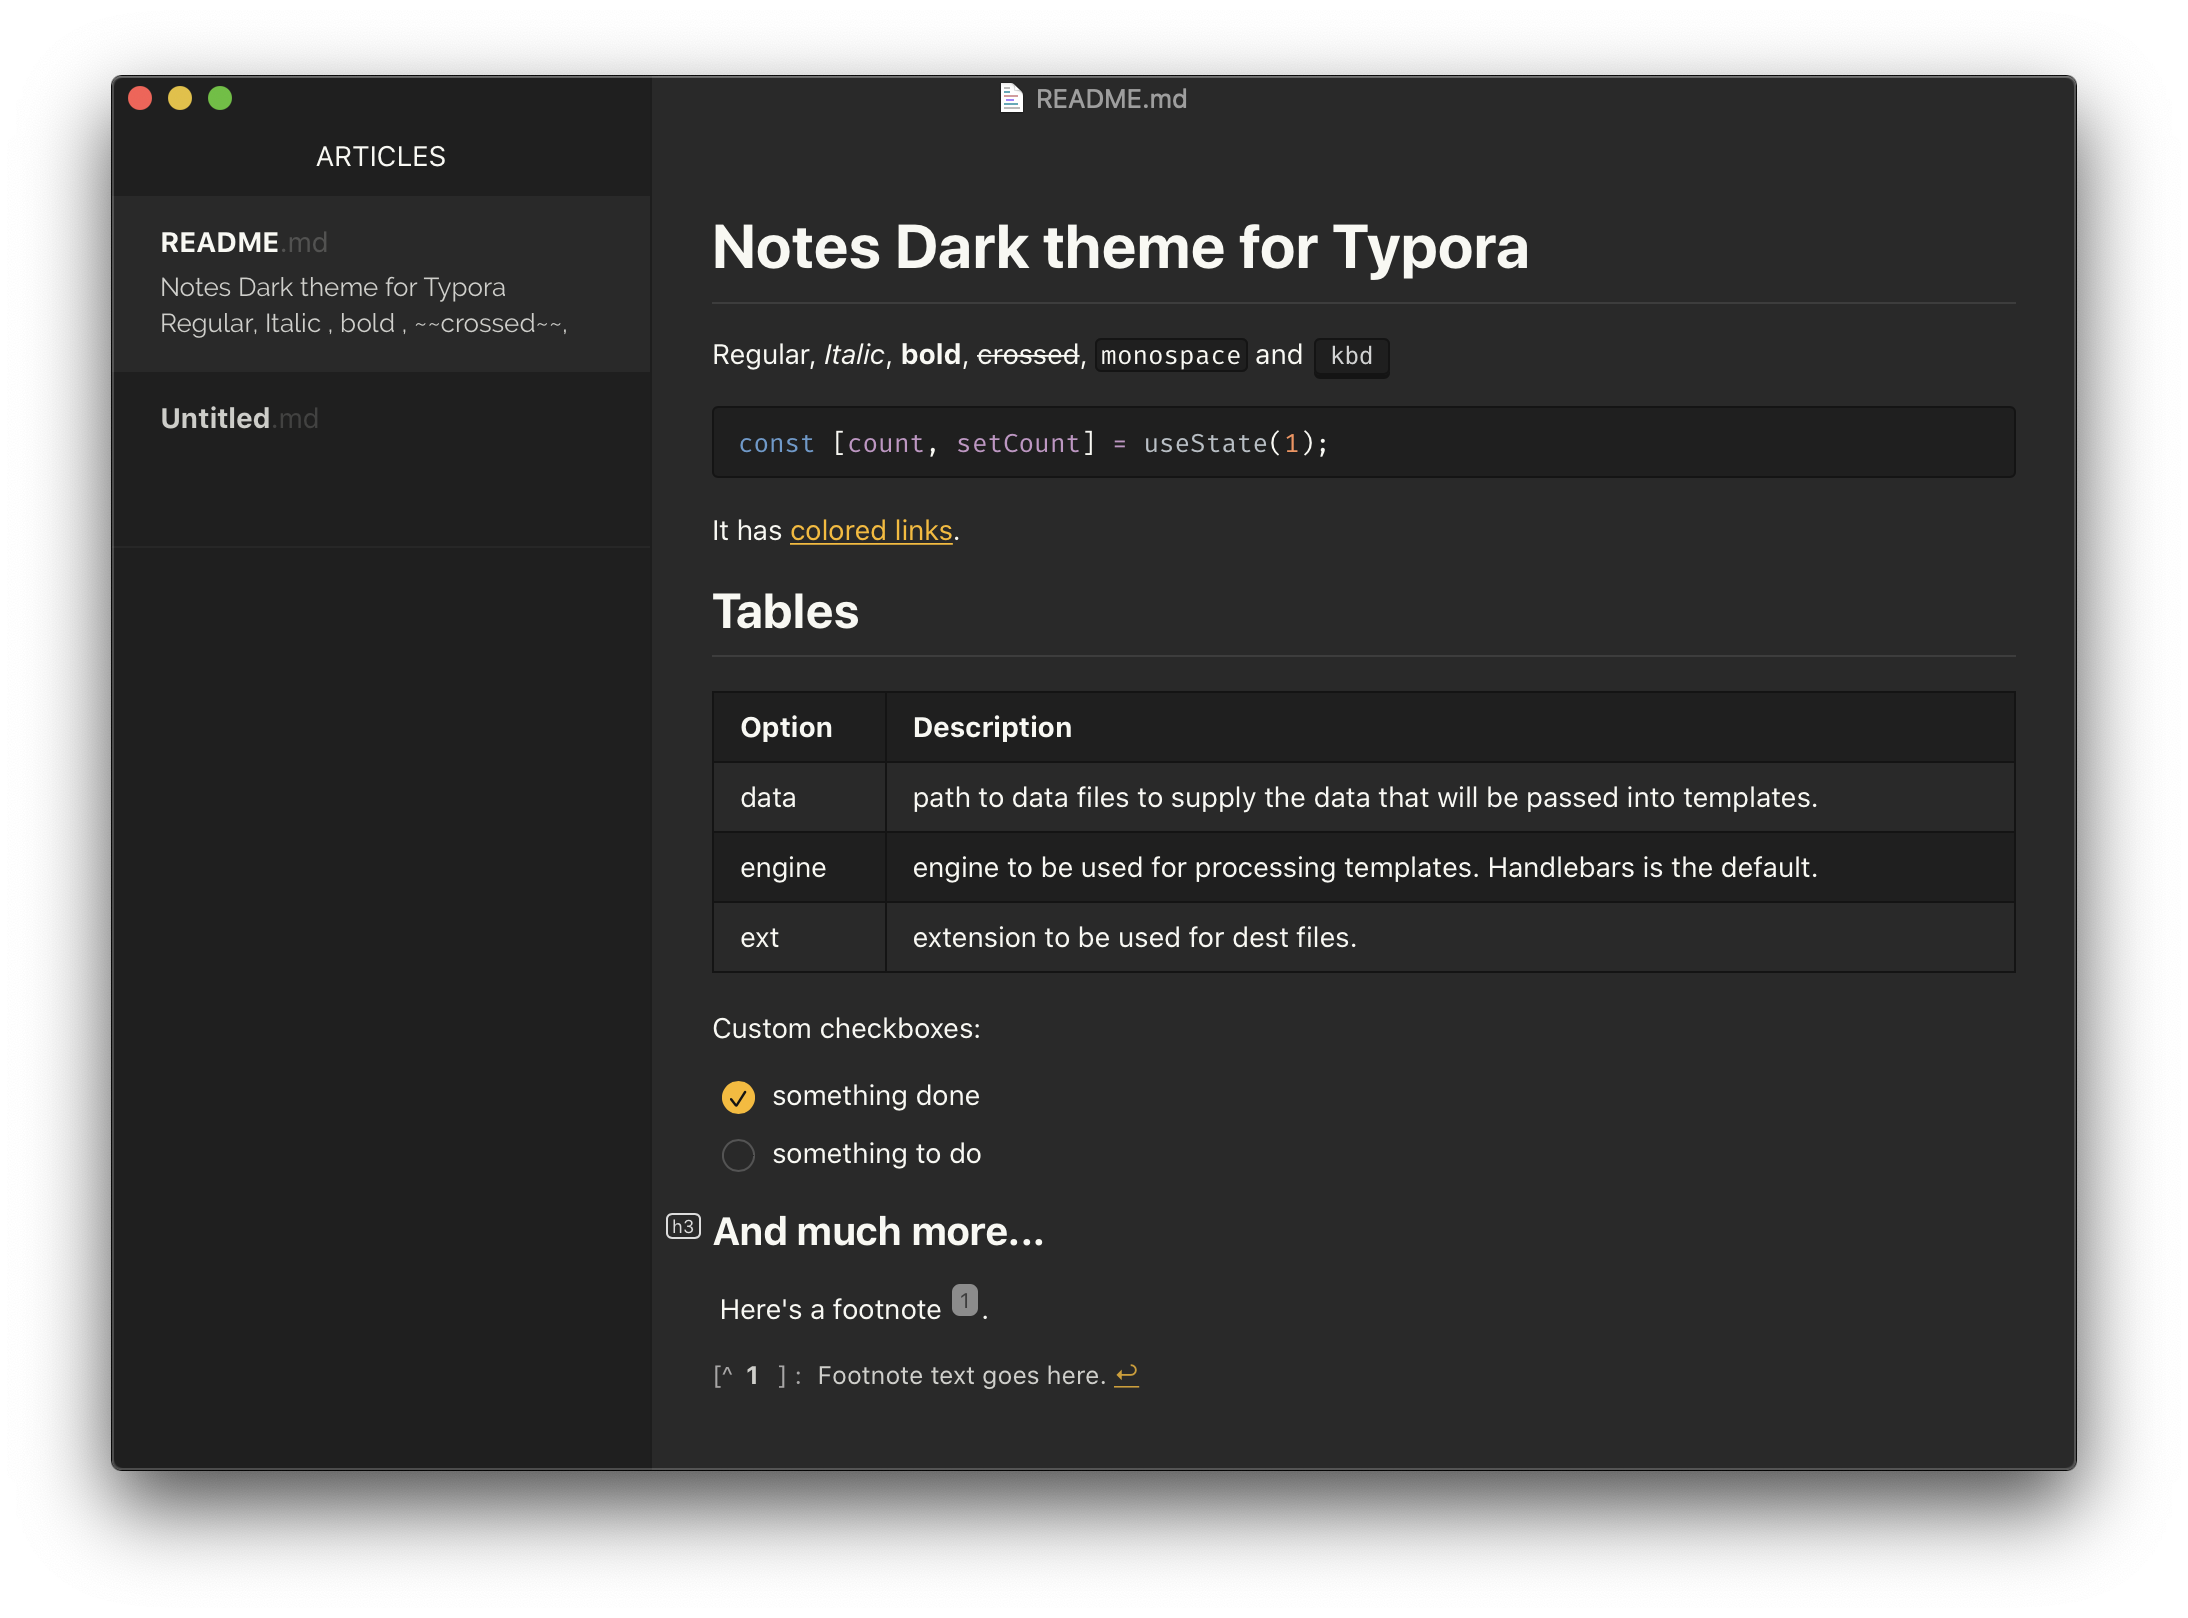
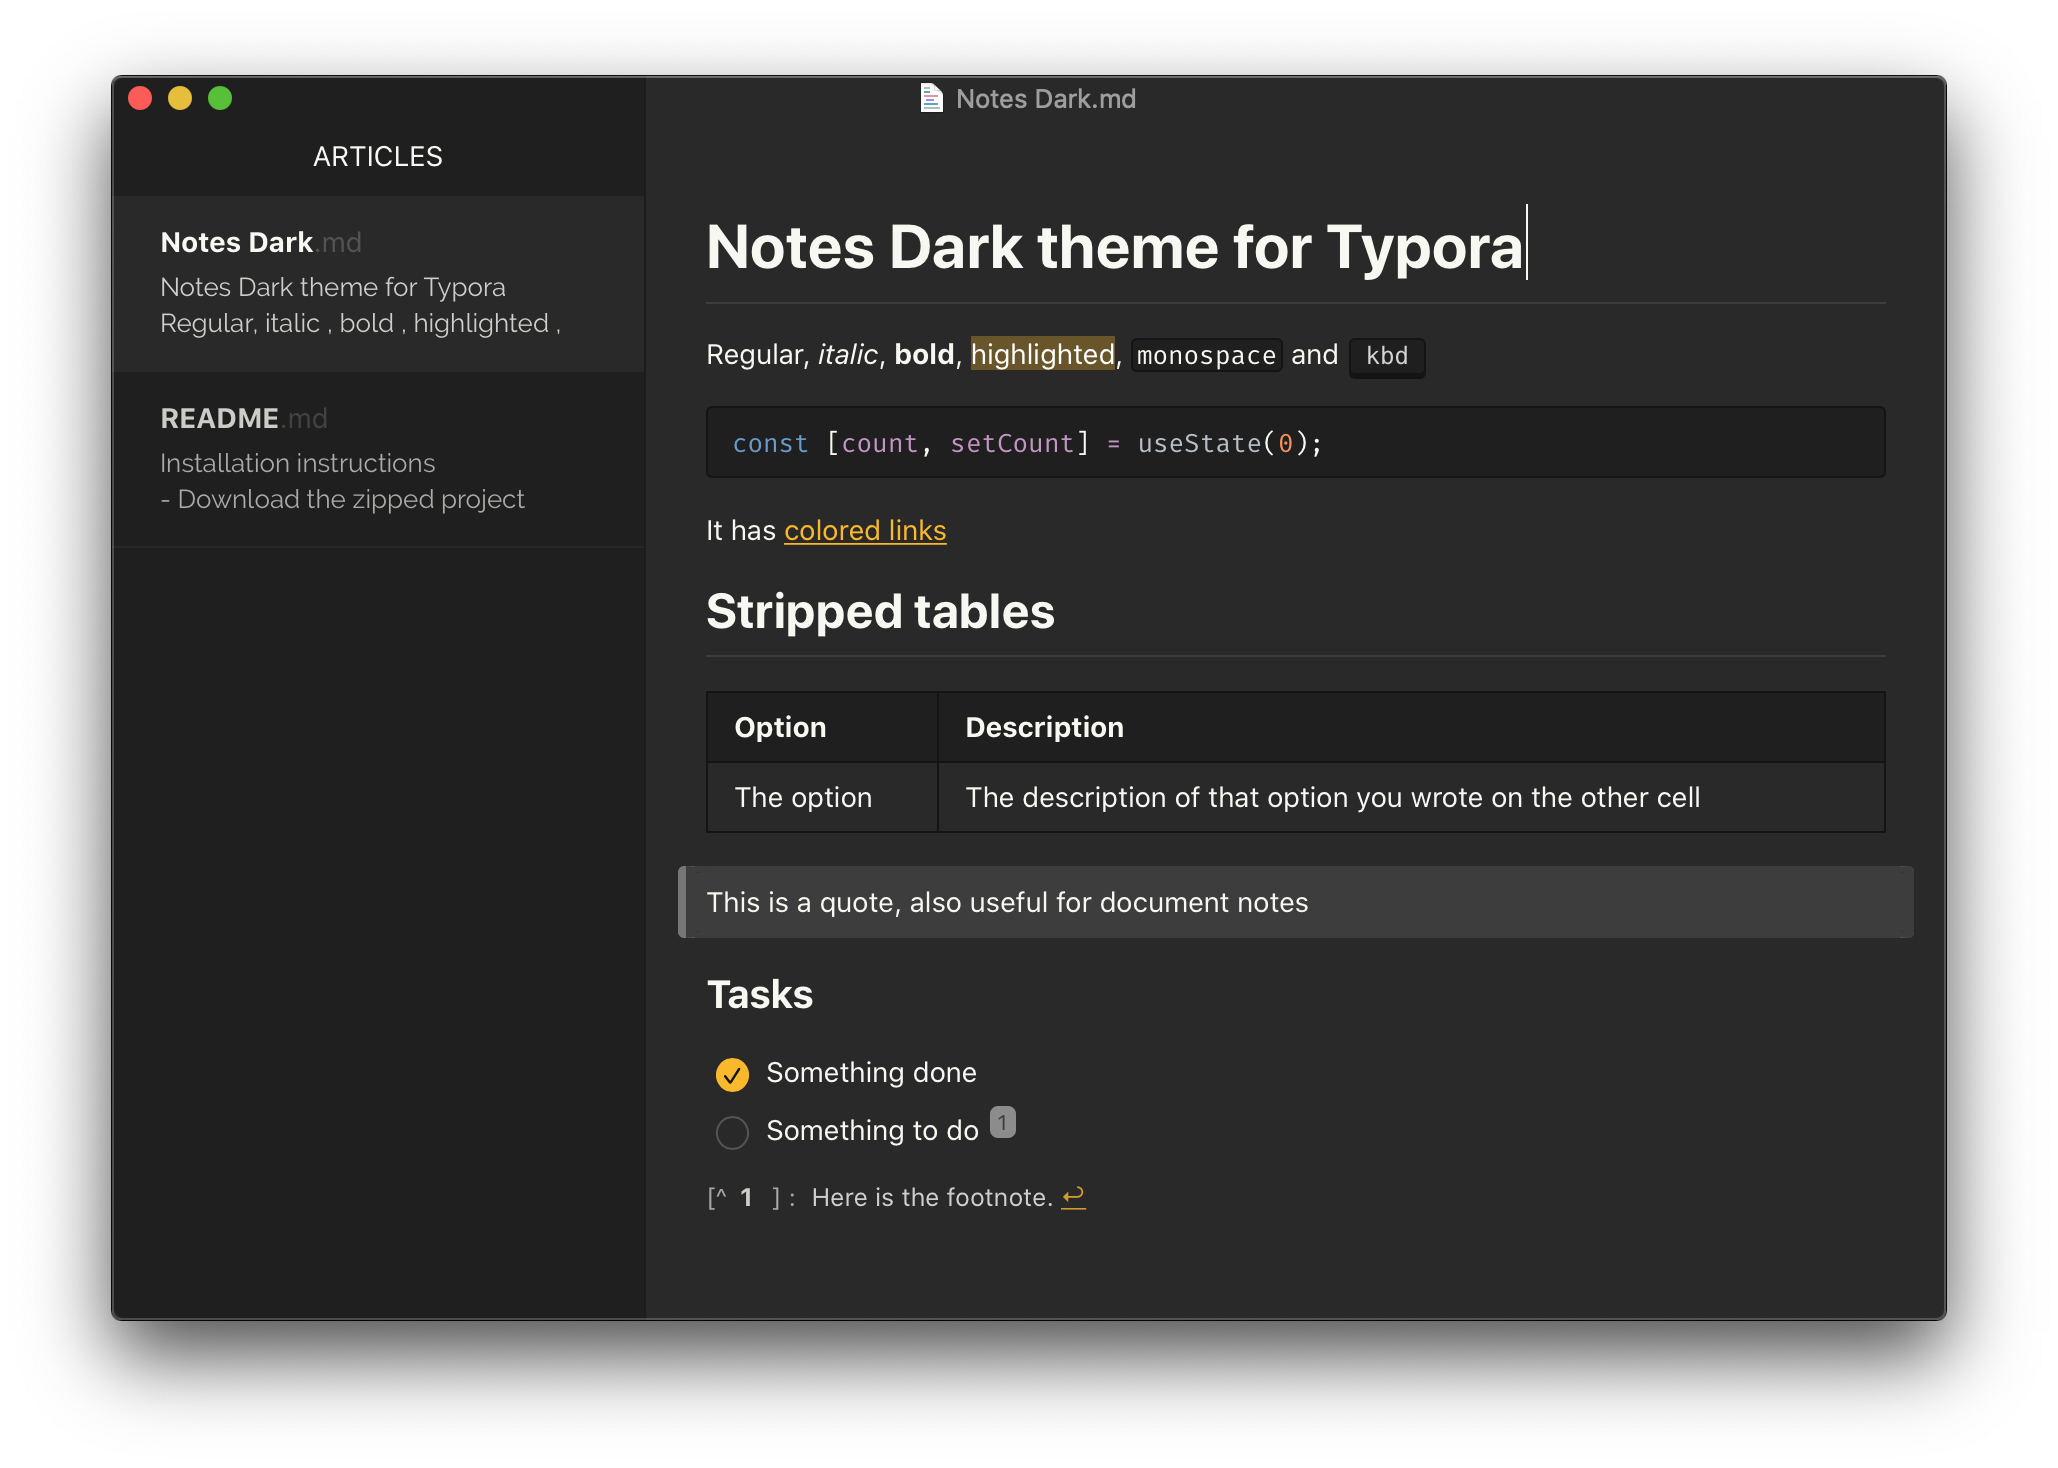
Update screenshot

diff --git a/sample.md b/sample.md
@@ -1,0 +1,24 @@
+# Notes Dark theme for Typora
+
+Regular, *italic*, **bold**, ==highlighted==, `monospace` and <kbd>kbd</kbd>
+
+```javascript
+const [count, setCount] = useState(0);
+```
+
+It has [colored links]()
+
+## Stripped tables
+
+| Option     | Description                                                |
+| ---------- | ---------------------------------------------------------- |
+| The option | The description of that option you wrote on the other cell |
+
+> This is a quote, also useful for document notes
+
+### Tasks
+
+- [x] Something done
+- [ ] Something to do [^1]
+
+[^1]: Here is the footnote.
